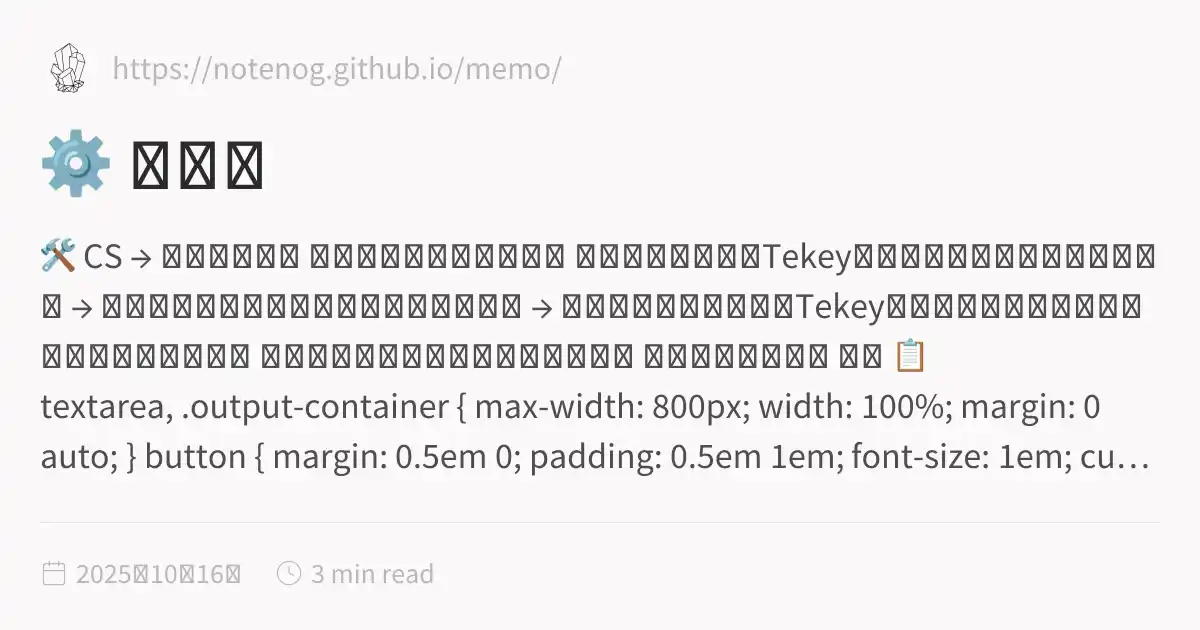
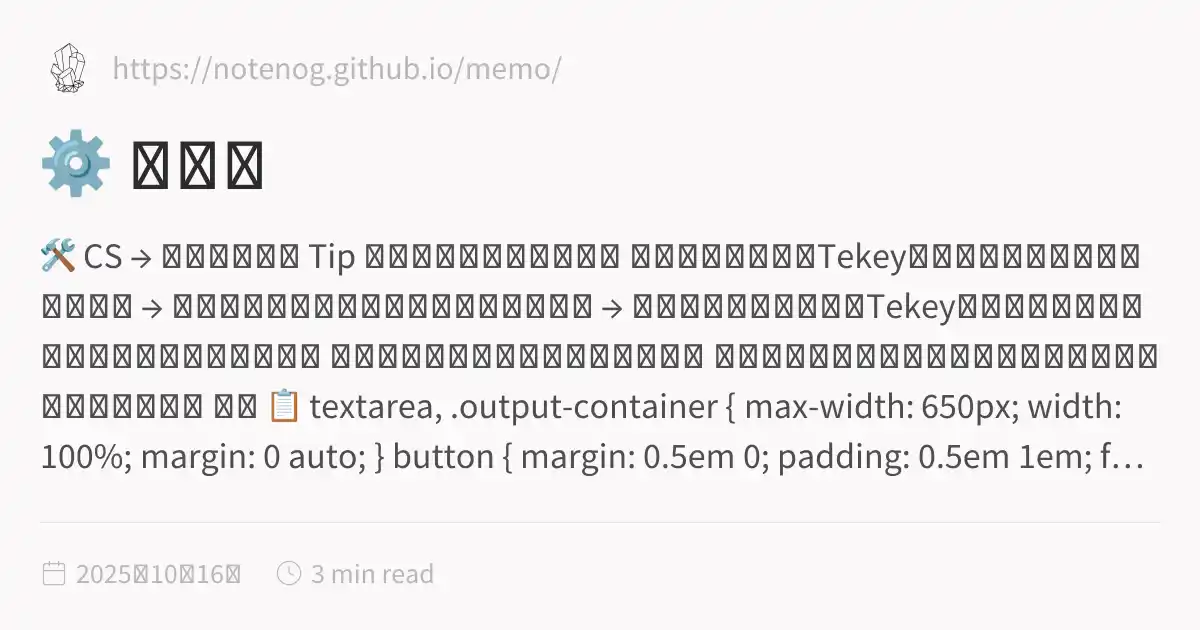
fix: Final push of clean assets with all content emitters disabled

Changed region(s): [[0.0308, 0.5429, 0.9867, 0.754], [0.0308, 0.3619, 0.9867, 0.5127]]

diff --git a/docs/inSANe_old/index.html b/docs/inSANe_old/index.html
@@ -116,6 +116,6 @@ pre:hover > .expand-button {
   padding: 0 12px;
   font-size: 14px;
 }
[2 lines of base64/hex data omitted]
 </script><script type="module">function f(i,e){if(!i)return;function r(o){o.target===this&&(o.preventDefault(),o.stopPropagation(),e())}function t(o){o.key.startsWith("Esc")&&(o.preventDefault(),e())}i?.addEventListener("click",r),window.addCleanup(()=>i?.removeEventListener("click",r)),document.addEventListener("keydown",t),window.addCleanup(()=>document.removeEventListener("keydown",t))}function y(i){for(;i.firstChild;)i.removeChild(i.firstChild)}var h=class{constructor(e,r){this.container=e;this.content=r;this.setupEventListeners(),this.setupNavigationControls(),this.resetTransform()}isDragging=!1;startPan={x:0,y:0};currentPan={x:0,y:0};scale=1;MIN_SCALE=.5;MAX_SCALE=3;cleanups=[];setupEventListeners(){let e=this.onMouseDown.bind(this),r=this.onMouseMove.bind(this),t=this.onMouseUp.bind(this),o=this.resetTransform.bind(this);this.container.addEventListener("mousedown",e),document.addEventListener("mousemove",r),document.addEventListener("mouseup",t),window.addEventListener("resize",o),this.cleanups.push(()=>this.container.removeEventListener("mousedown",e),()=>document.removeEventListener("mousemove",r),()=>document.removeEventListener("mouseup",t),()=>window.removeEventListener("resize",o))}cleanup(){for(let e of this.cleanups)e()}setupNavigationControls(){let e=document.createElement("div");e.className="mermaid-controls";let r=this.createButton("+",()=>this.zoom(.1)),t=this.createButton("-",()=>this.zoom(-.1)),o=this.createButton("Reset",()=>this.resetTransform());e.appendChild(t),e.appendChild(o),e.appendChild(r),this.container.appendChild(e)}createButton(e,r){let t=document.createElement("button");return t.textContent=e,t.className="mermaid-control-button",t.addEventListener("click",r),window.addCleanup(()=>t.removeEventListener("click",r)),t}onMouseDown(e){e.button===0&&(this.isDragging=!0,this.startPan={x:e.clientX-this.currentPan.x,y:e.clientY-this.currentPan.y},this.container.style.cursor="grabbing")}onMouseMove(e){this.isDragging&&(e.preventDefault(),this.currentPan={x:e.clientX-this.startPan.x,y:e.clientY-this.startPan.y},this.updateTransform())}onMouseUp(){this.isDragging=!1,this.container.style.cursor="grab"}zoom(e){let r=Math.min(Math.max(this.scale+e,this.MIN_SCALE),this.MAX_SCALE),t=this.content.getBoundingClientRect(),o=t.width/2,n=t.height/2,c=r-this.scale;this.currentPan.x-=o*c,this.currentPan.y-=n*c,this.scale=r,this.updateTransform()}updateTransform(){this.content.style.transform=`translate(${this.currentPan.x}px, ${this.currentPan.y}px) scale(${this.scale})`}resetTransform(){this.scale=1;let e=this.content.querySelector("svg");this.currentPan={x:e.getBoundingClientRect().width/2,y:e.getBoundingClientRect().height/2},this.updateTransform()}},C=["--secondary","--tertiary","--gray","--light","--lightgray","--highlight","--dark","--darkgray","--codeFont"],E;document.addEventListener("nav",async()=>{let e=document.querySelector(".center").querySelectorAll("code.mermaid");if(e.length===0)return;E||=await import("https://cdnjs.cloudflare.com/ajax/libs/mermaid/11.4.0/mermaid.esm.min.mjs");let r=E.default,t=new WeakMap;for(let n of e)t.set(n,n.innerText);async function o(){for(let s of e){s.removeAttribute("data-processed");let a=t.get(s);a&&(s.innerHTML=a)}let n=C.reduce((s,a)=>(s[a]=window.getComputedStyle(document.documentElement).getPropertyValue(a),s),{}),c=document.documentElement.getAttribute("saved-theme")==="dark";r.initialize({startOnLoad:!1,securityLevel:"loose",theme:c?"dark":"base",themeVariables:{fontFamily:n["--codeFont"],primaryColor:n["--light"],primaryTextColor:n["--darkgray"],primaryBorderColor:n["--tertiary"],lineColor:n["--darkgray"],secondaryColor:n["--secondary"],tertiaryColor:n["--tertiary"],clusterBkg:n["--light"],edgeLabelBackground:n["--highlight"]}}),await r.run({nodes:e})}await o(),document.addEventListener("themechange",o),window.addCleanup(()=>document.removeEventListener("themechange",o));for(let n=0;n<e.length;n++){let v=function(){let g=l.querySelector("#mermaid-space"),m=l.querySelector(".mermaid-content");if(!m)return;y(m);let w=c.querySelector("svg").cloneNode(!0);m.appendChild(w),l.classList.add("active"),g.style.cursor="grab",u=new h(g,m)},M=function(){l.classList.remove("active"),u?.cleanup(),u=null},c=e[n],s=c.parentElement,a=s.querySelector(".clipboard-button"),d=s.querySelector(".expand-button"),p=window.getComputedStyle(a),L=a.offsetWidth+parseFloat(p.marginLeft||"0")+parseFloat(p.marginRight||"0");d.style.right=`calc(${L}px + 0.3rem)`,s.prepend(d);let l=s.querySelector("#mermaid-container");if(!l)return;let u=null;d.addEventListener("click",v),f(l,M),window.addCleanup(()=>{u?.cleanup(),d.removeEventListener("click",v)})}});
 </script><script src="https://cdn.jsdelivr.net/npm/katex@0.16.11/dist/contrib/copy-tex.min.js" type="application/javascript"></script><script src="../postscript.js" type="module"></script></html>

diff --git a/docs/inSANe_old/tool.html b/docs/inSANe_old/tool.html
@@ -1,5 +1,5 @@
 <!DOCTYPE html>
-<html lang="ja" dir="ltr"><head><title>⚙ ツール</title><meta charset="utf-8"/><link rel="preconnect" href="https://fonts.googleapis.com"/><link rel="preconnect" href="https://fonts.gstatic.com"/><link rel="stylesheet" href="https://fonts.googleapis.com/css2?family=Schibsted Grotesk:wght@400;700&amp;family=Source Sans Pro:ital,wght@0,400;0,600;1,400;1,600&amp;family=IBM Plex Mono:wght@400;600&amp;display=swap"/><link rel="preconnect" href="https://cdnjs.cloudflare.com" crossorigin="anonymous"/><meta name="viewport" content="width=device-width, initial-scale=1.0"/><meta name="og:site_name" content="MEMO"/><meta property="og:title" content="⚙ ツール"/><meta property="og:type" content="website"/><meta name="twitter:card" content="summary_large_image"/><meta name="twitter:title" content="⚙ ツール"/><meta name="twitter:description" content="🛠 CS → コマ情報整形 キャラクターシート倉庫 さん上部にある「Tekeyフォーマット出力」をクリック → 全文をコピーして下部エリアにペースト → 「変換」をクリックでTekeyのコマ用に整形された文章が表示されます。 インセインにしか対応していません また、自分用です 変換 📋 textarea, .output-container { max-width: 800px; width: 100%; margin: 0 auto; } button { margin: 0.5em 0; padding: 0.5em 1em; font-size: 1em; cursor: point..."/><meta property="og:description" content="🛠 CS → コマ情報整形 キャラクターシート倉庫 さん上部にある「Tekeyフォーマット出力」をクリック → 全文をコピーして下部エリアにペースト → 「変換」をクリックでTekeyのコマ用に整形された文章が表示されます。 インセインにしか対応していません また、自分用です 変換 📋 textarea, .output-container { max-width: 800px; width: 100%; margin: 0 auto; } button { margin: 0.5em 0; padding: 0.5em 1em; font-size: 1em; cursor: point..."/><meta property="og:image:alt" content="🛠 CS → コマ情報整形 キャラクターシート倉庫 さん上部にある「Tekeyフォーマット出力」をクリック → 全文をコピーして下部エリアにペースト → 「変換」をクリックでTekeyのコマ用に整形された文章が表示されます。 インセインにしか対応していません また、自分用です 変換 📋 textarea, .output-container { max-width: 800px; width: 100%; margin: 0 auto; } button { margin: 0.5em 0; padding: 0.5em 1em; font-size: 1em; cursor: point..."/><meta property="twitter:domain" content="https://notenog.github.io/memo/"/><meta property="og:url" content="https://https//notenog.github.io/memo/inSANe_old/tool"/><meta property="twitter:url" content="https://https//notenog.github.io/memo/inSANe_old/tool"/><link rel="icon" href="../static/icon.png"/><meta name="description" content="🛠 CS → コマ情報整形 キャラクターシート倉庫 さん上部にある「Tekeyフォーマット出力」をクリック → 全文をコピーして下部エリアにペースト → 「変換」をクリックでTekeyのコマ用に整形された文章が表示されます。 インセインにしか対応していません また、自分用です 変換 📋 textarea, .output-container { max-width: 800px; width: 100%; margin: 0 auto; } button { margin: 0.5em 0; padding: 0.5em 1em; font-size: 1em; cursor: point..."/><meta name="generator" content="Quartz"/><link href="../index.css" rel="stylesheet" type="text/css" spa-preserve/><style>.expand-button {
+<html lang="ja" dir="ltr"><head><title>⚙ ツール</title><meta charset="utf-8"/><link rel="preconnect" href="https://fonts.googleapis.com"/><link rel="preconnect" href="https://fonts.gstatic.com"/><link rel="stylesheet" href="https://fonts.googleapis.com/css2?family=Schibsted Grotesk:wght@400;700&amp;family=Source Sans Pro:ital,wght@0,400;0,600;1,400;1,600&amp;family=IBM Plex Mono:wght@400;600&amp;display=swap"/><link rel="preconnect" href="https://cdnjs.cloudflare.com" crossorigin="anonymous"/><meta name="viewport" content="width=device-width, initial-scale=1.0"/><meta name="og:site_name" content="MEMO"/><meta property="og:title" content="⚙ ツール"/><meta property="og:type" content="website"/><meta name="twitter:card" content="summary_large_image"/><meta name="twitter:title" content="⚙ ツール"/><meta name="twitter:description" content="🛠 CS → コマ情報整形 Tip キャラクターシート倉庫 さん上部にある「Tekeyフォーマット出力」をクリック → 全文をコピーして下部エリアにペースト → 「変換」をクリックでTekeyのコマ用に整形された文章が表示されます。 インセインにしか対応していません また、自分のセッション周り用のみとして想定しています 変換 📋 textarea, .output-container { max-width: 650px; width: 100%; margin: 0 auto; } button { margin: 0.5em 0; padding: 0.5em 1em; font-si..."/><meta property="og:description" content="🛠 CS → コマ情報整形 Tip キャラクターシート倉庫 さん上部にある「Tekeyフォーマット出力」をクリック → 全文をコピーして下部エリアにペースト → 「変換」をクリックでTekeyのコマ用に整形された文章が表示されます。 インセインにしか対応していません また、自分のセッション周り用のみとして想定しています 変換 📋 textarea, .output-container { max-width: 650px; width: 100%; margin: 0 auto; } button { margin: 0.5em 0; padding: 0.5em 1em; font-si..."/><meta property="og:image:alt" content="🛠 CS → コマ情報整形 Tip キャラクターシート倉庫 さん上部にある「Tekeyフォーマット出力」をクリック → 全文をコピーして下部エリアにペースト → 「変換」をクリックでTekeyのコマ用に整形された文章が表示されます。 インセインにしか対応していません また、自分のセッション周り用のみとして想定しています 変換 📋 textarea, .output-container { max-width: 650px; width: 100%; margin: 0 auto; } button { margin: 0.5em 0; padding: 0.5em 1em; font-si..."/><meta property="twitter:domain" content="https://notenog.github.io/memo/"/><meta property="og:url" content="https://https//notenog.github.io/memo/inSANe_old/tool"/><meta property="twitter:url" content="https://https//notenog.github.io/memo/inSANe_old/tool"/><link rel="icon" href="../static/icon.png"/><meta name="description" content="🛠 CS → コマ情報整形 Tip キャラクターシート倉庫 さん上部にある「Tekeyフォーマット出力」をクリック → 全文をコピーして下部エリアにペースト → 「変換」をクリックでTekeyのコマ用に整形された文章が表示されます。 インセインにしか対応していません また、自分のセッション周り用のみとして想定しています 変換 📋 textarea, .output-container { max-width: 650px; width: 100%; margin: 0 auto; } button { margin: 0.5em 0; padding: 0.5em 1em; font-si..."/><meta name="generator" content="Quartz"/><link href="../index.css" rel="stylesheet" type="text/css" spa-preserve/><style>.expand-button {
   position: absolute;
   display: flex;
   float: right;
@@ -118,19 +118,24 @@ pre:hover > .expand-button {
 }
[1 lines of base64/hex data omitted]
 <hr/>
+<blockquote class="callout tip" data-callout="tip">
+<div class="callout-title">
+                  <div class="callout-icon"></div>
+                  <div class="callout-title-inner"><p>Tip</p></div>
+                  
+                </div>
+</blockquote>
 <p><a href="https://character-sheets.appspot.com/" class="external">キャラクターシート倉庫<svg aria-hidden="true" class="external-icon" style="max-width:0.8em;max-height:0.8em;" viewBox="0 0 512 512"><path d="M320 0H288V64h32 82.7L201.4 265.4 178.7 288 224 333.3l22.6-22.6L448 109.3V192v32h64V192 32 0H480 320zM32 32H0V64 480v32H32 456h32V480 352 320H424v32 96H64V96h96 32V32H160 32z"></path></svg></a> さん上部にある「Tekeyフォーマット出力」をクリック →<br/>
 全文をコピーして下部エリアにペースト →<br/>
 「変換」をクリックでTekeyのコマ用に整形された文章が表示されます。</p>
 <blockquote class="callout warning" data-callout="warning">
 <div class="callout-title">
                   <div class="callout-icon"></div>
-                  <div class="callout-title-inner"><p>インセインにしか対応していません </p></div>
+                  <div class="callout-title-inner"><p>インセインにしか対応していません <br/>また、自分のセッション周り用のみとして想定しています</p></div>
                   
                 </div>
-<div class="callout-content">
-<p>また、自分用です</p>
-</div>
 </blockquote>
+<p><br/><br/></p>
 
 <div class="tool-ui">
 <div class="tool-ui">
@@ -142,12 +147,13 @@ pre:hover > .expand-button {
     <pre id="output"></pre>
   </div>
 </div>
+<p><br/><br/><br/></p>
 
 <style>
 
   textarea,
   .output-container {
-    max-width: 800px;
+    max-width: 650px;
     width: 100%;
     margin: 0 auto;
   }
@@ -155,7 +161,7 @@ pre:hover > .expand-button {
   button {
     margin: 0.5em 0;
     padding: 0.5em 1em;
-    font-size: 1em;
+    font-size: 10px;
     cursor: pointer;
   }
   .output-container {

diff --git a/content/inSANe_old/tool.md b/content/inSANe_old/tool.md
@@ -6,13 +6,15 @@ draft: false
 ## 🛠 CS → コマ情報整形
 ___
 
+> [!tip] 
 [キャラクターシート倉庫](https://character-sheets.appspot.com/) さん上部にある「Tekeyフォーマット出力」をクリック →  
 全文をコピーして下部エリアにペースト →  
 「変換」をクリックでTekeyのコマ用に整形された文章が表示されます。
+  
+  
+> [!warning]  インセインにしか対応していません<br>また、自分のセッション周り用のみとして想定しています
 
-> [!warning]  インセインにしか対応していません  
-> また、自分用です
-
+<br><br>
 
 <!-- ここからHTML UI部分 -->
 <div class="tool-ui">
@@ -27,13 +29,15 @@ ___
   </div>
 </div>
 
+<br><br><br>
+
 <!-- 👇ここに空行を入れる！ -->
 
 <style>
 
   textarea,
   .output-container {
-    max-width: 800px;
+    max-width: 650px;
     width: 100%;
     margin: 0 auto;
   }
@@ -41,7 +45,7 @@ ___
   button {
     margin: 0.5em 0;
     padding: 0.5em 1em;
-    font-size: 1em;
+    font-size: 10px;
     cursor: pointer;
   }
   .output-container {
